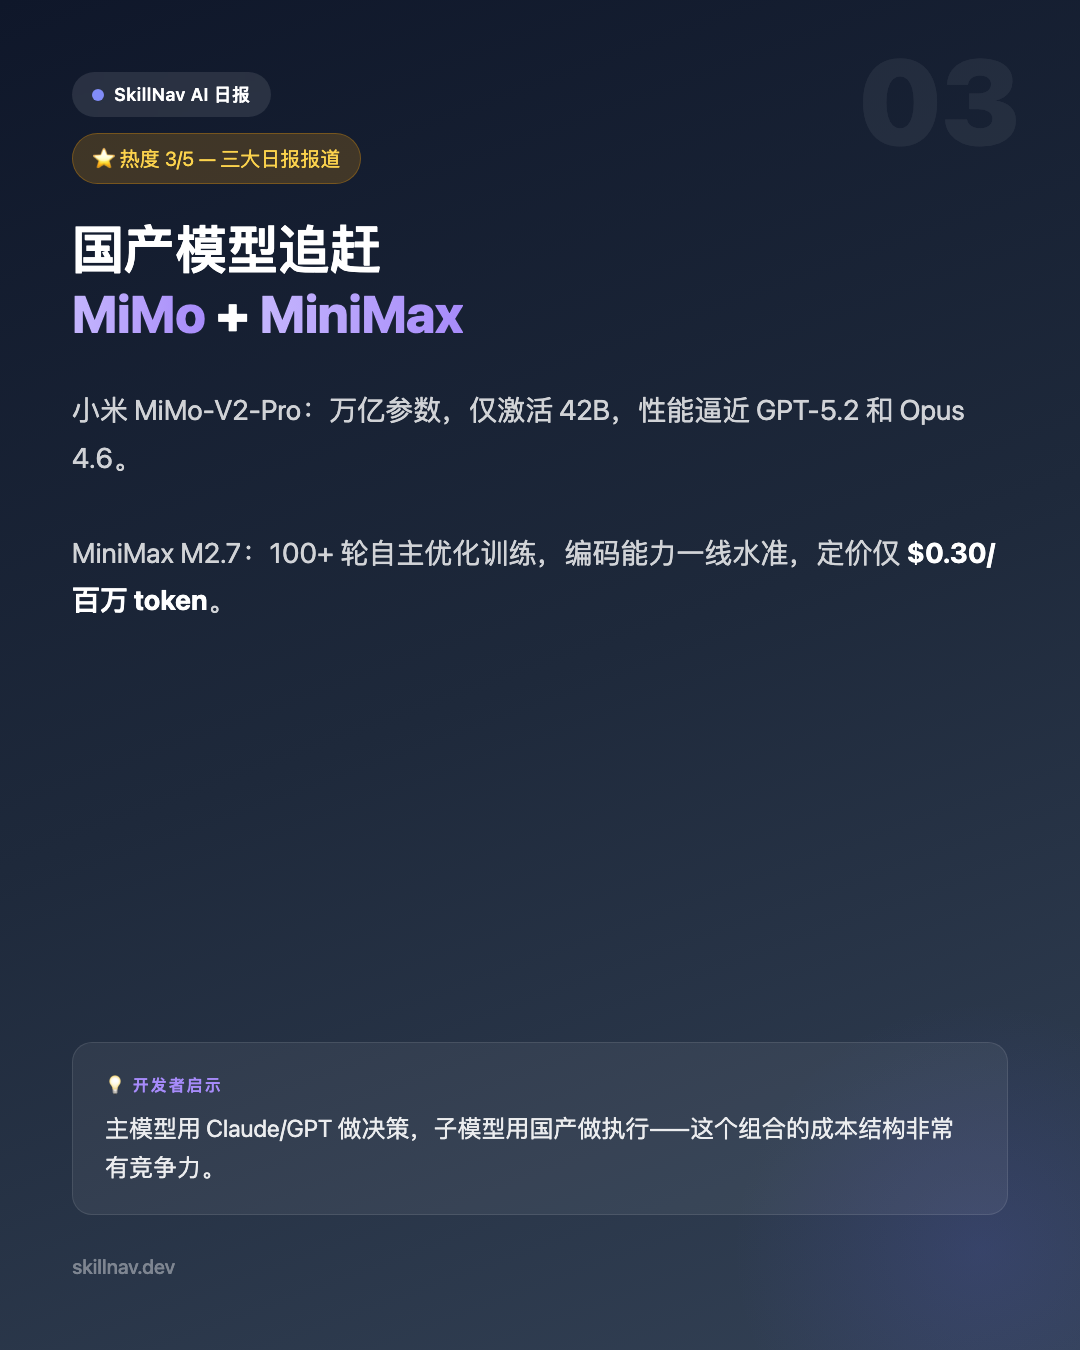
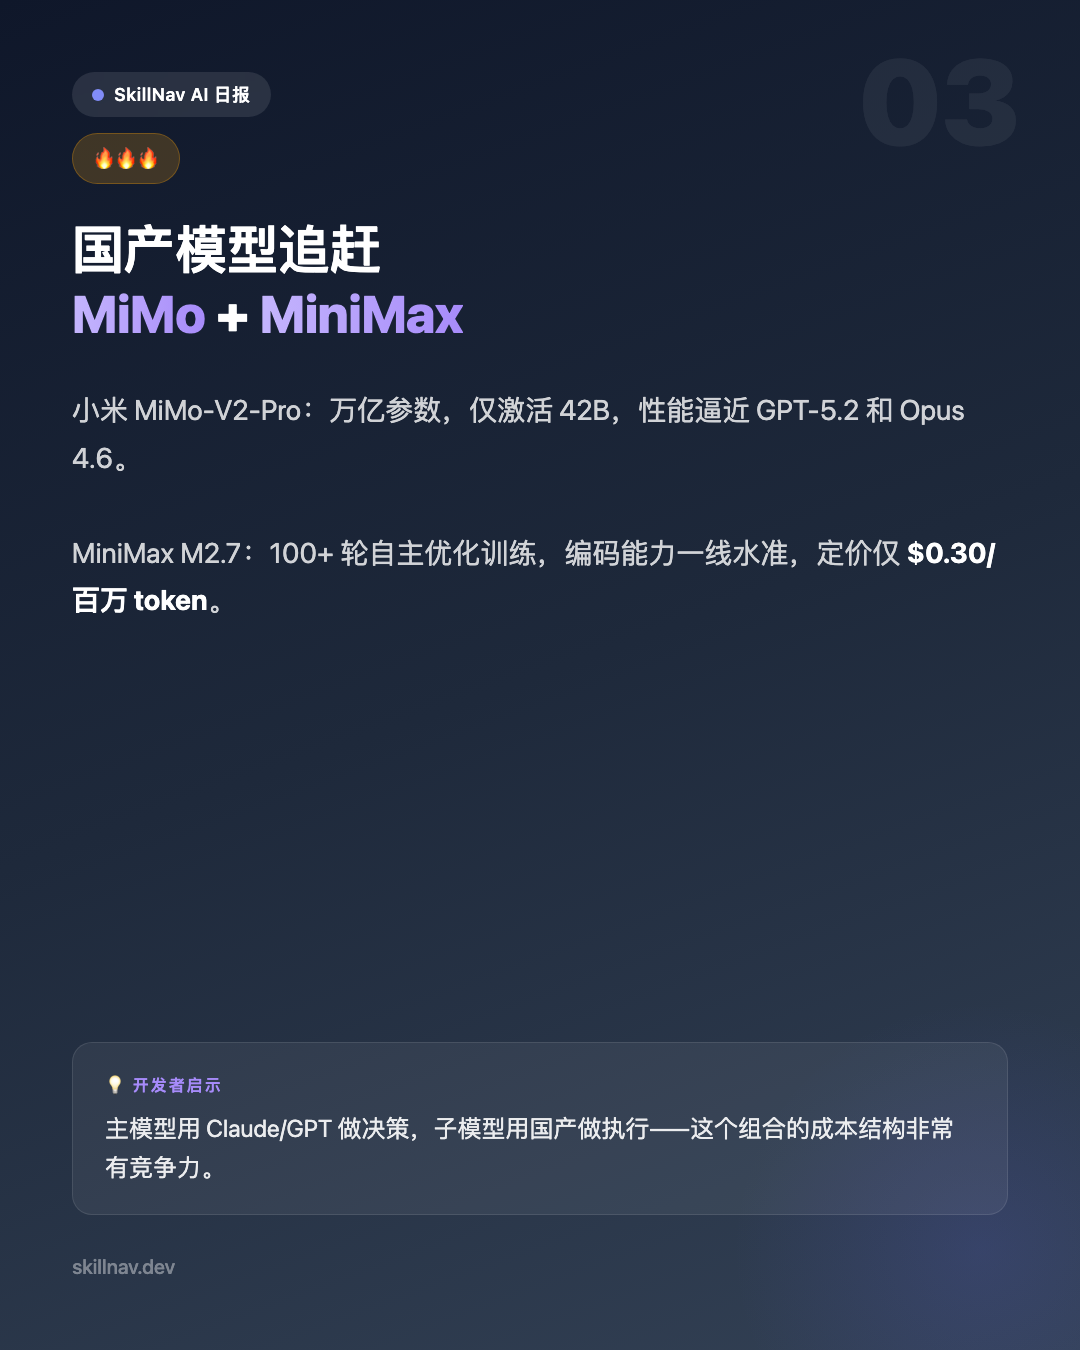
fix(daily): simplify heat labels to fire emoji stars
- Replace "热度 4/5 — 四大日报同时报道" with 🔥🔥🔥🔥
- Replace "热度 3/5 — 三大日报报道" with 🔥🔥🔥
- CTA card: simpler tagline
- Re-rendered all 7 card images

Changed region(s): [[0.0917, 0.0933, 0.3361, 0.1556]]

diff --git a/scripts/templates/daily-card.html b/scripts/templates/daily-card.html
@@ -268,7 +268,7 @@
     </div>
   </div>
   <div class="cover-footer z1">
-    <span class="heat-pill">🔥 4/5 日报共识</span>
+    <span class="heat-pill">🔥🔥🔥🔥</span>
     <span class="cover-url">skillnav.dev</span>
   </div>
 </div>
@@ -279,7 +279,7 @@
   <div class="z1">
     <div class="brand-pill"><span class="brand-dot"></span>SkillNav AI 日报</div>
     <div class="topic-heat">
-      <span class="heat-pill">🔥 热度 4/5 — 四大日报同时报道</span>
+      <span class="heat-pill">🔥🔥🔥🔥</span>
     </div>
     <h2 class="topic-title">Anthropic 发布<br/><em>81,000 人</em> AI 调研</h2>
     <p class="topic-body">全球 80,508 人参与的大规模调研揭示：用户对 AI 同时存在期待和担忧。33% 享受用 AI 学习，17% 担忧产生依赖。最关键的发现：<strong style="color:#fff">同一个人同时又爱又怕</strong>。</p>
@@ -299,7 +299,7 @@
   <div class="z1">
     <div class="brand-pill"><span class="brand-dot"></span>SkillNav AI 日报</div>
     <div class="topic-heat">
-      <span class="heat-pill heat-pill-orange">⭐ 热度 3/5 — 三大日报报道</span>
+      <span class="heat-pill heat-pill-orange">🔥🔥🔥</span>
     </div>
     <h2 class="topic-title">Google <em>Stitch</em><br/>AI 原生设计平台</h2>
     <p class="topic-body">Google Labs 推出 Stitch——无限画布 + 设计 Agent + 语音指令 + 原型生成。继 v0、Bolt、Lovable 之后，Google 入场。</p>
@@ -319,7 +319,7 @@
   <div class="z1">
     <div class="brand-pill"><span class="brand-dot"></span>SkillNav AI 日报</div>
     <div class="topic-heat">
-      <span class="heat-pill heat-pill-orange">⭐ 热度 3/5 — 三大日报报道</span>
+      <span class="heat-pill heat-pill-orange">🔥🔥🔥</span>
     </div>
     <h2 class="topic-title">国产模型追赶<br/><em>MiMo</em> + <em>MiniMax</em></h2>
     <p class="topic-body">小米 MiMo-V2-Pro：万亿参数，仅激活 42B，性能逼近 GPT-5.2 和 Opus 4.6。<br/><br/>MiniMax M2.7：100+ 轮自主优化训练，编码能力一线水准，定价仅 <strong style="color:#fff">$0.30/百万 token</strong>。</p>
@@ -339,7 +339,7 @@
   <div class="z1">
     <div class="brand-pill"><span class="brand-dot"></span>SkillNav AI 日报</div>
     <div class="topic-heat">
-      <span class="heat-pill heat-pill-orange">⭐ 热度 3/5 — 三大日报报道</span>
+      <span class="heat-pill heat-pill-orange">🔥🔥🔥</span>
     </div>
     <h2 class="topic-title">Runway<br/><em>实时</em>视频生成</h2>
     <p class="topic-body">联合 NVIDIA 发布实时视频生成模型。<br/><br/>首帧延迟 <strong style="color:#fff">&lt;100ms</strong>——从"提交任务等结果"变成"边调边看"。视频生成可以嵌入直播、游戏、视频通话等实时场景。</p>
@@ -362,7 +362,7 @@
     <div class="cta-features">
       <div class="cta-feature">
         <span class="cta-feature-icon">🔥</span>
-        <span>每天追踪 5 大 AI 日报热度交集</span>
+        <span>每天追踪行业热度，精选最重要的事</span>
       </div>
       <div class="cta-feature">
         <span class="cta-feature-icon">💡</span>
@@ -391,7 +391,7 @@
   <h1 class="wh-title">81,000 人的回答：<br/>想要 AI <em>协作</em>，不是 <em>替代</em></h1>
   <p class="wh-subtitle">Anthropic 全球调研 · Google Stitch · 国产模型追赶 · Runway 实时视频</p>
   <div class="wh-tags">
-    <span class="wh-tag">🔥 4/5 日报共识</span>
+    <span class="wh-tag">🔥🔥🔥🔥</span>
     <span class="wh-tag">4 条热点</span>
     <span class="wh-tag">4 篇精选</span>
   </div>
